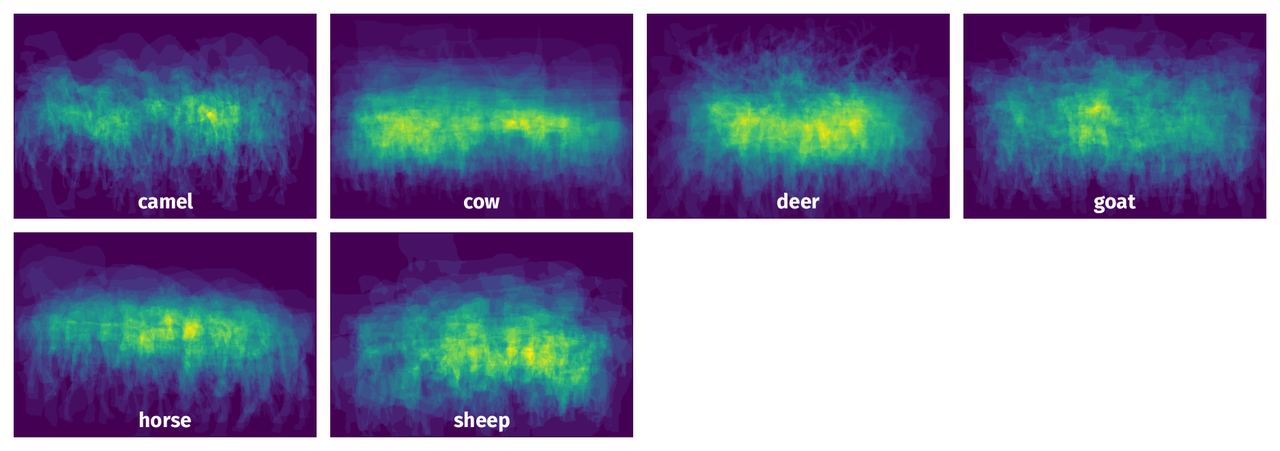
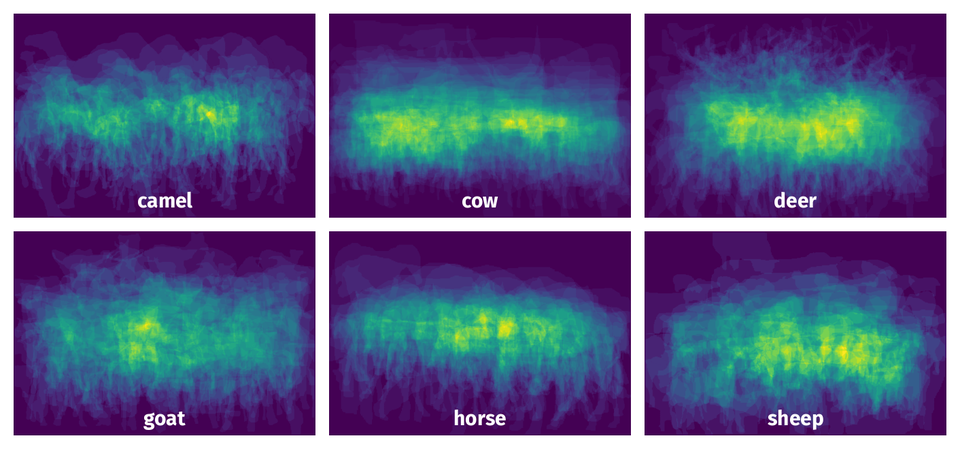
upd heatmaps

diff --git a/src/options.py b/src/options.py
@@ -71,8 +71,8 @@ CLASSES_PREVIEW_TAGS: List[str] = None
 ### * Set up visualization params for ClassesHeatmaps class ###
 # args for "to_image" method
 DRAW_STYLE: str = None  # "inside_white" or "outside_black"
-HEATMAP_ROWS: int = None
-HEATMAP_COLS: int = None
+HEATMAP_ROWS: int = 2
+HEATMAP_COLS: int = 3
 HEATMAP_GRID_SPACING: int = None
 HEATMAP_OUTER_GRID_SPACING: int = None
 HEATMAP_OUTPUT_WIDTH: int = (
